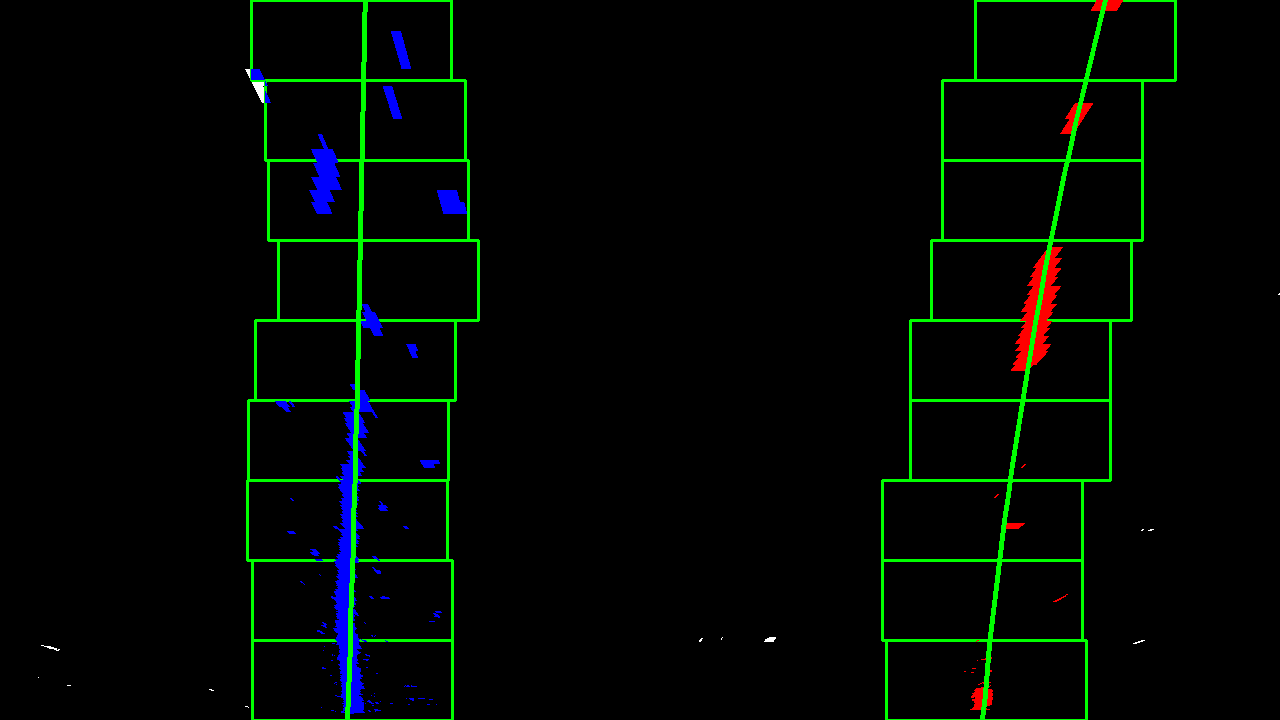
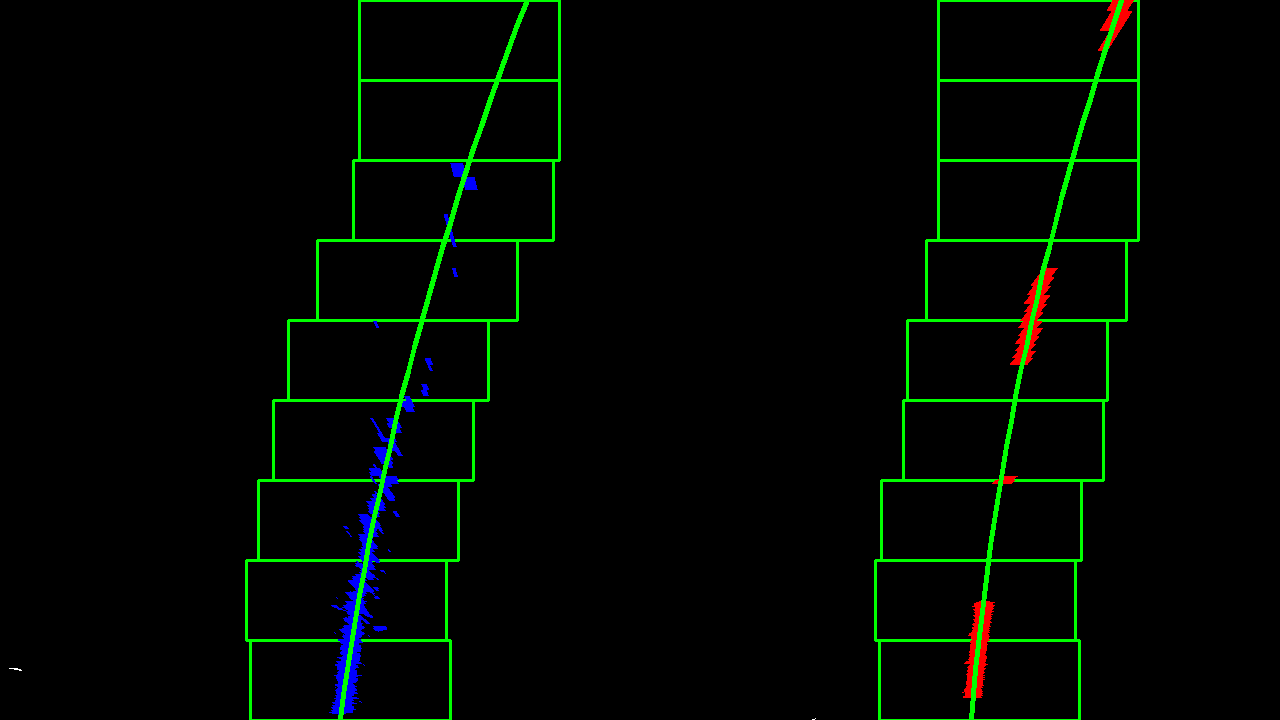
Almost there... 3

diff --git a/main.py b/main.py
@@ -47,7 +47,7 @@ def create_demo_images(camera):
     calibration_demo(camera, 'test_images/test1.jpg',
                      "output_images/undistort2.png")
 
-    img = mpimg.imread('test_images/test1.jpg')
+    img = mpimg.imread('test_images/test3.jpg')
     undistorted = camera.undistort(img)
     thresholded = thresholding.threshold(undistorted)
     plot_side_by_side("Undistorted", undistorted, "Thresholded",

diff --git a/thresholding.py b/thresholding.py
@@ -22,7 +22,7 @@ def threshold(img):
     white_or_yellow_binary = boolean_to_binary(white | yellow)
 
     if config.VISUALIZE_THRESHOLD:
-        color = np.dstack((white_or_yellow_binary, white_or_yellow_binary, white_binary))
+        color = np.dstack((white_binary, white_or_yellow_binary, white_or_yellow_binary))
         cv2.imshow('debug', color)
         if cv2.waitKey() % 256 == 27:
             exit()
